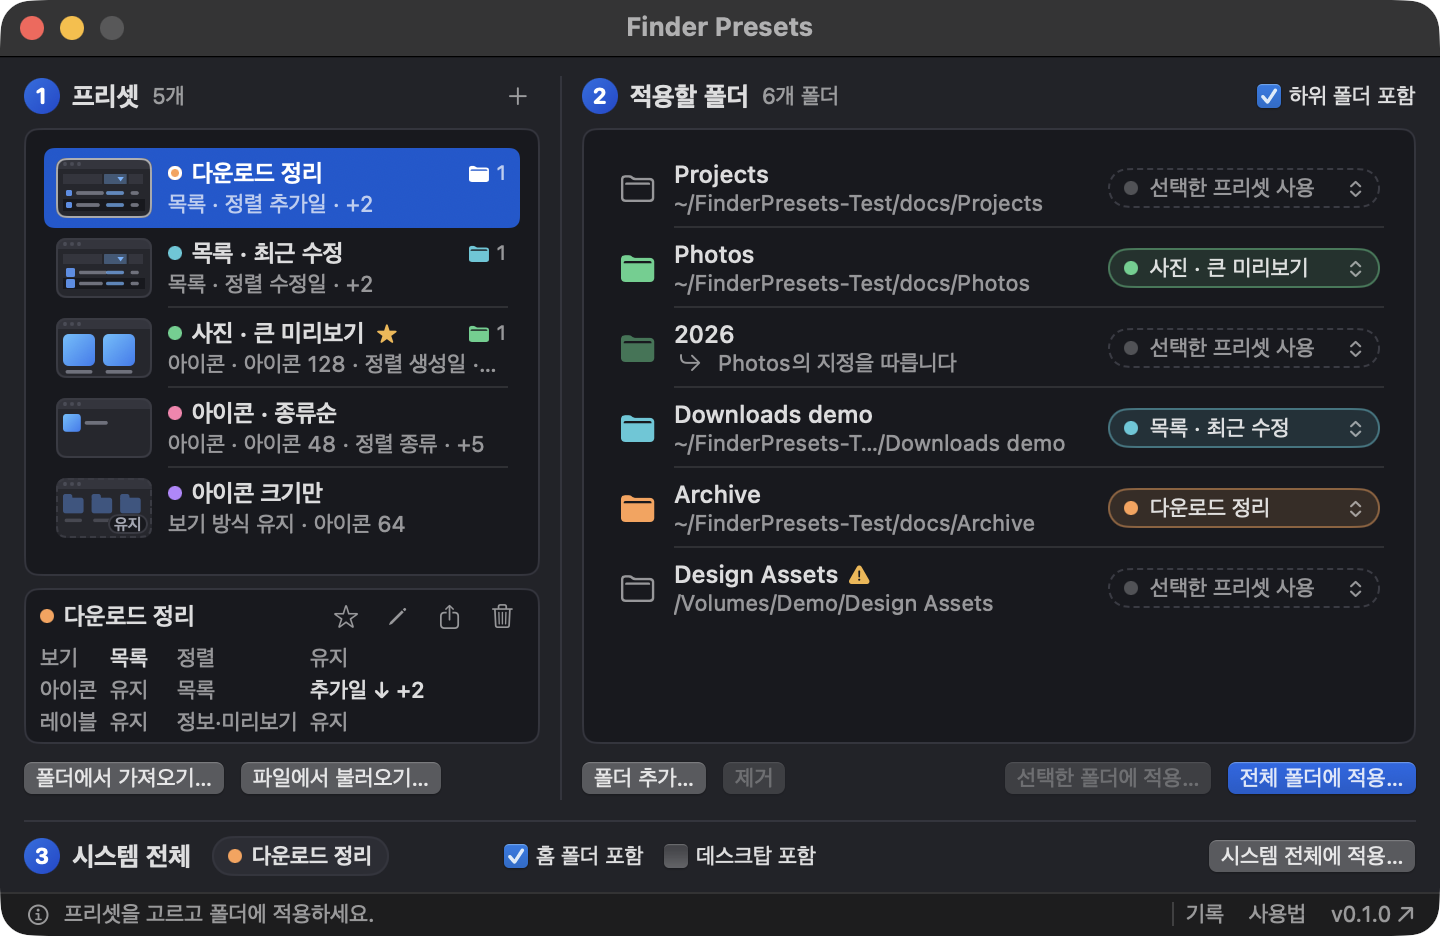
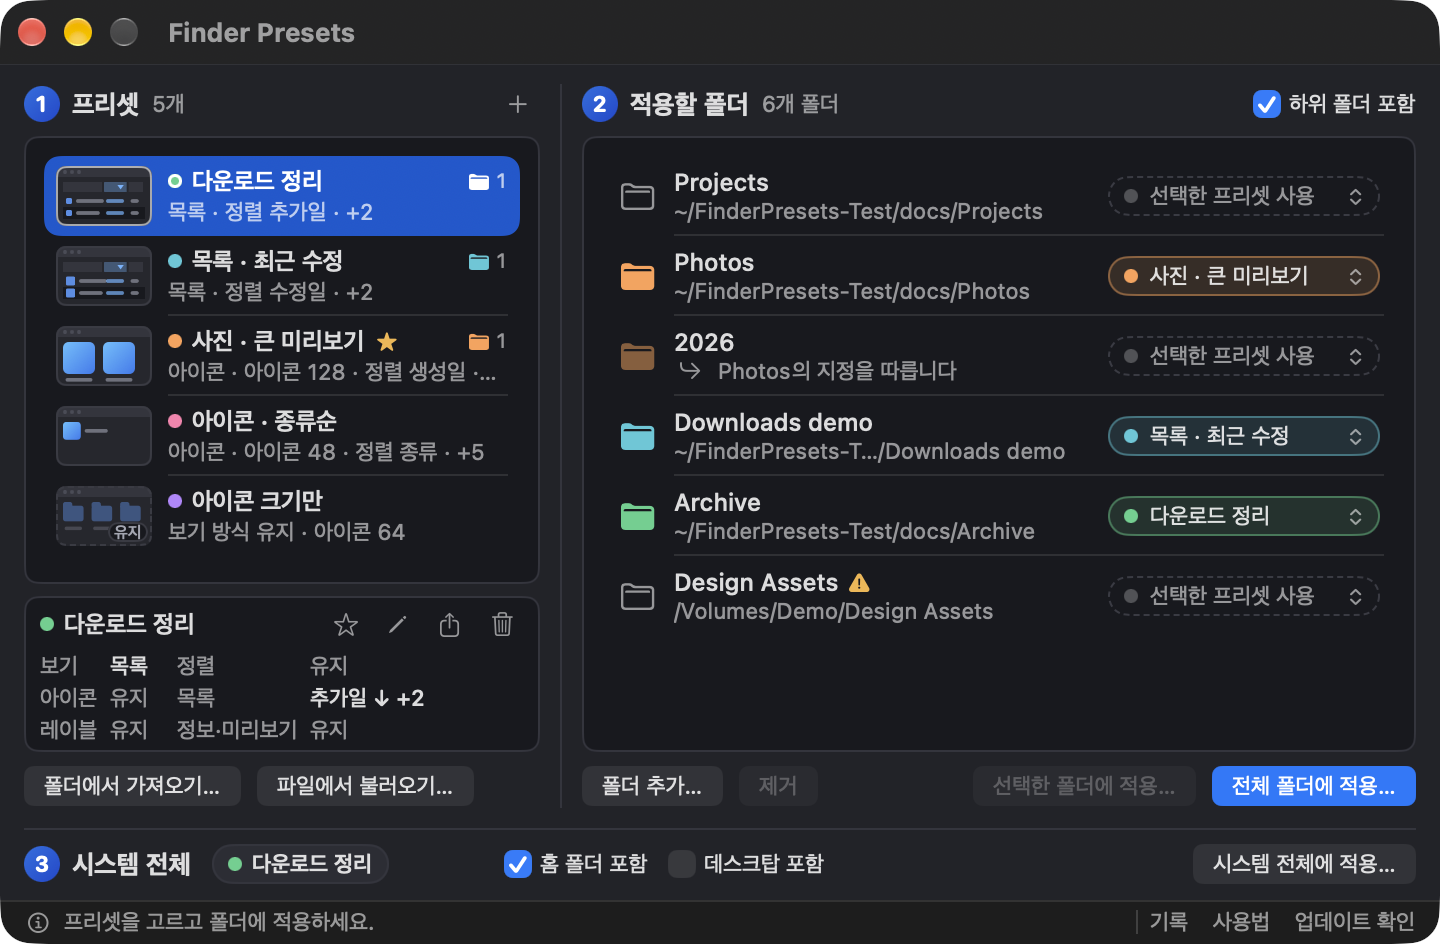
docs: retake the README screenshots and note that the app follows the system appearance (#7)
- README images captured from the current build (settings/menu bar or the main window and editor in both languages).
- One line in both READMEs: the app follows the system light and dark appearance.

diff --git a/README.ko.md b/README.ko.md
@@ -58,6 +58,7 @@ shasum -a 256 -c FinderPresets.dmg.sha256
 - **시스템 전체 적용:** Finder 기본 보기와, 원하면 홈 폴더까지 한 번에 바꿉니다.
 - **Finder 재시작 자동:** 필요할 때 앱이 Finder를 다시 시작하고, 열려 있던 Finder 창도 다시 엽니다.
 - **Finder 오른쪽 클릭 메뉴:** Finder의 서비스 메뉴에서 폴더 추가, 프리셋 만들기, 적용을 할 수 있습니다.
+- **라이트·다크 모드:** macOS의 모양 설정을 따릅니다.
 - **한국어와 영어 지원**
 
 ## 개인정보

diff --git a/README.md b/README.md
@@ -58,6 +58,7 @@ shasum -a 256 -c FinderPresets.dmg.sha256
 - **System-wide:** change Finder's default view and, optionally, your home folder in one step.
 - **Finder restarts for you:** the app restarts Finder when needed and reopens your Finder windows.
 - **Finder right-click menu:** add folders, make presets or apply from Finder's Services menu.
+- **Light and dark:** follows the system appearance.
 - **English and Korean**
 
 ## Privacy
